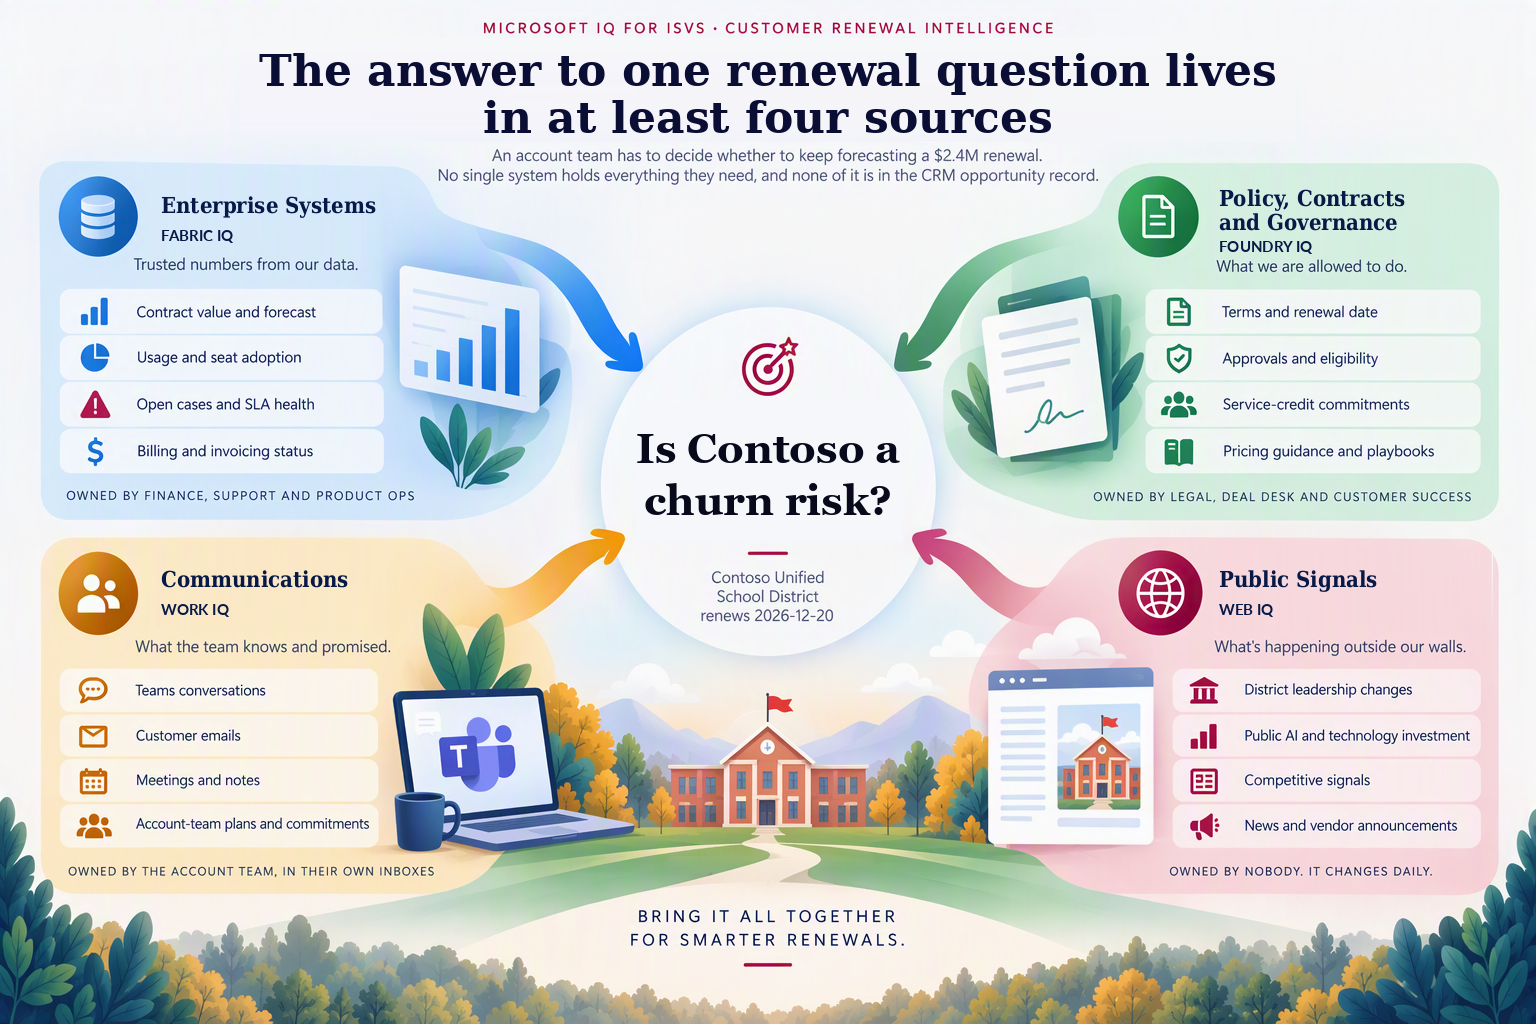
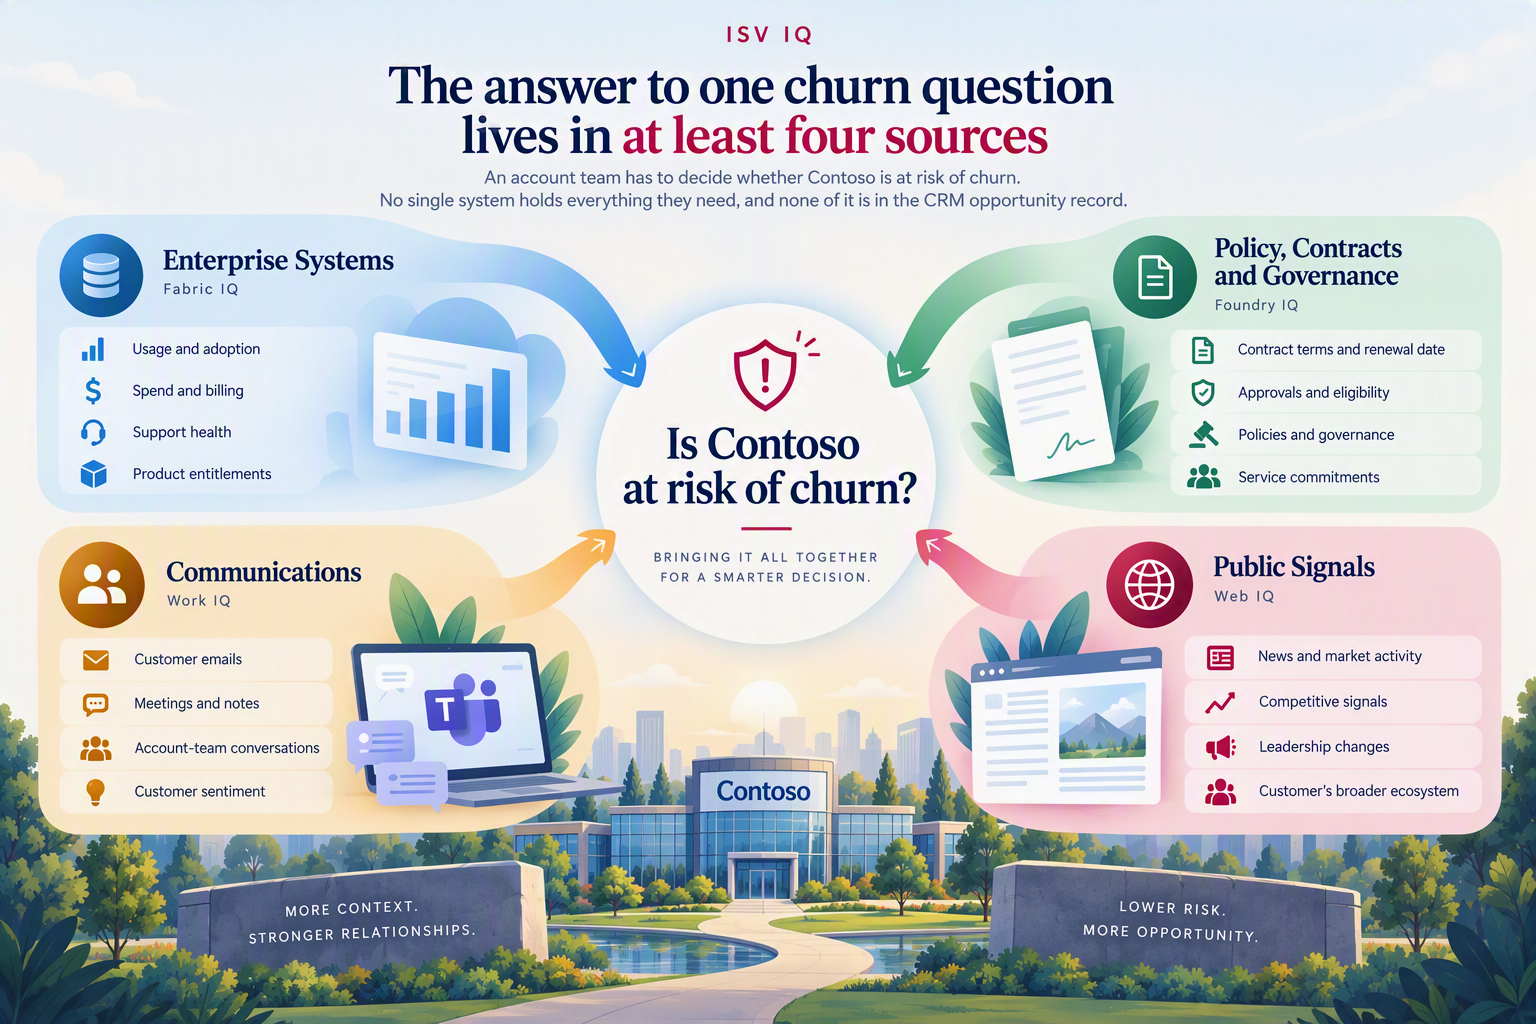
Replace the main graphic with the churn-question design
Copilot-Session: f6947fe8-b12b-4c33-9be8-e9082fc8372e

diff --git a/site/index.html b/site/index.html
@@ -142,7 +142,7 @@
 
   <section style="padding-top:0;margin-bottom:56px">
     <figure class="figure">
-      <img src="images/isv-why-it-matters.png" width="1536" height="1024" alt="Microsoft IQ sources feeding one sales renewal question">
+      <img src="images/isv-why-it-matters.png" width="1536" height="1024" alt="Is Contoso at risk of churn? Enterprise systems, policy and contracts, communications and public signals feed one answer">
       <figcaption>Fabric, Foundry, Work and Web each hold part of the answer. They are queried in parallel.</figcaption>
     </figure>
   </section>

diff --git a/README.md b/README.md
@@ -8,7 +8,7 @@ The flagship scenario is **Customer Renewal and Expansion Intelligence** for the
 Contoso Unified School District account, with Fabrikam Unified School District as a positive expansion
 contrast in a five-school-district renewal portfolio.
 
-![Why this matters: one renewal question, at least four sources](docs/images/isv-why-it-matters.png?v=4)
+![Why this matters: one churn question, at least four sources](docs/images/isv-why-it-matters.png?v=5)
 
 An [interactive version](docs/isv-why-it-matters.html) lists the specific data in each place.
 
